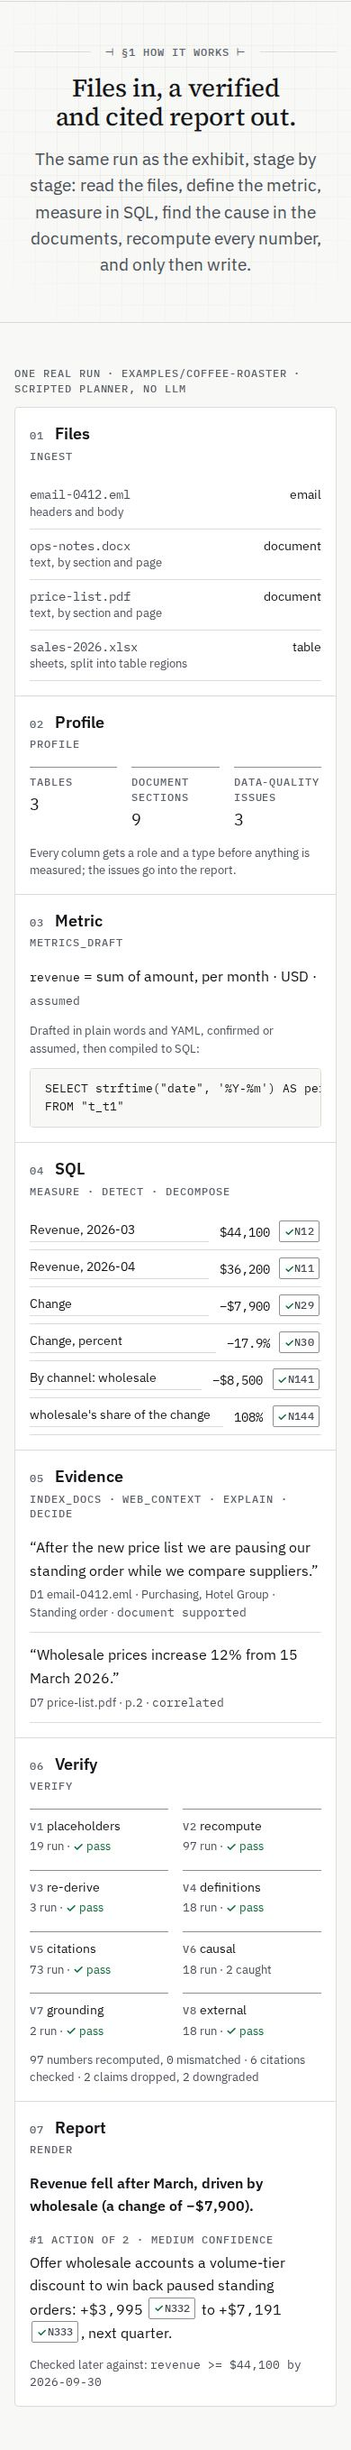
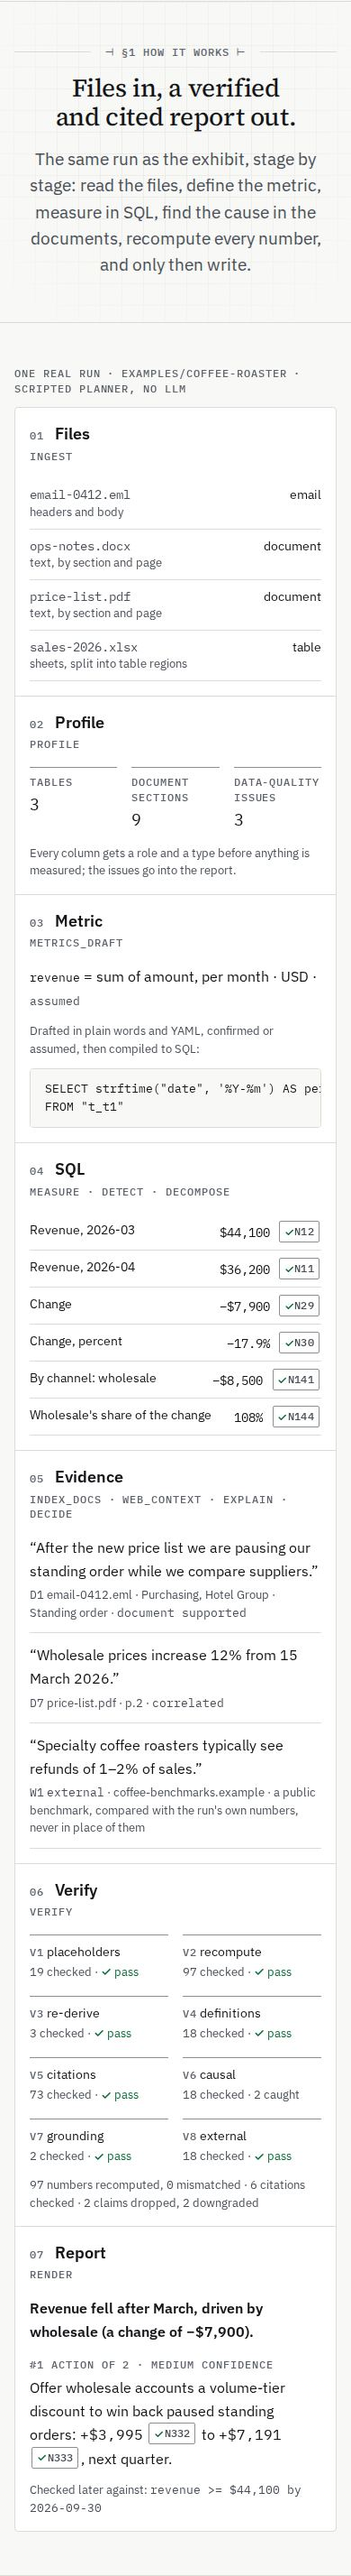
fix(site): pipeline stages keep Starlight's prose styles out (not-content), panels as groups, web quote, review fixes

diff --git a/scripts/site/browser/site.spec.ts b/scripts/site/browser/site.spec.ts
@@ -491,9 +491,9 @@ test("pipeline stages: still until Play; a stop opens its panel; Play steps once
   const stop = (name: string) => root.getByRole("button", { name, exact: true });
   // The finished report first, and still.
   await expect(current).toHaveCount(1);
-  await expect(current.locator("h3")).toContainText("Report");
+  await expect(current.locator(".aa-stage-name")).toContainText("Report");
   await page.clock.runFor(6000);
-  await expect(current.locator("h3")).toContainText("Report");
+  await expect(current.locator(".aa-stage-name")).toContainText("Report");
   const below = async () => page.locator("#why").evaluate((el) => Math.round(el.getBoundingClientRect().top + window.scrollY));
   const y = await below();
   // A stop opens its panel; only that panel is visible.
@@ -507,9 +507,9 @@ test("pipeline stages: still until Play; a stop opens its panel; Play steps once
   await play.click();
   await expect(play).toHaveText("Pause");
   await page.clock.runFor(2600);
-  await expect(current.locator("h3")).toContainText("Profile");
+  await expect(current.locator(".aa-stage-name")).toContainText("Profile");
   await page.clock.runFor(2600 * 6);
-  await expect(current.locator("h3")).toContainText("Report");
+  await expect(current.locator(".aa-stage-name")).toContainText("Report");
   await expect(play).toHaveText("Play");
   expect(await below()).toBe(y);
   // Pressing a stop while playing stops it there.
@@ -518,7 +518,7 @@ test("pipeline stages: still until Play; a stop opens its panel; Play steps once
   await stop("SQL").click();
   await expect(play).toHaveText("Play");
   await page.clock.runFor(6000);
-  await expect(current.locator("h3")).toContainText("SQL");
+  await expect(current.locator(".aa-stage-name")).toContainText("SQL");
 });
 
 test("pipeline stages: a stacked list without JS and under 40rem, no Play under reduced motion; type at the site's sizes", async ({
@@ -533,6 +533,38 @@ test("pipeline stages: a stacked list without JS and under 40rem, no Play under 
     for (const panel of await root.locator(".aa-stage").all()) await expect(panel).toBeVisible();
     await expect(root.locator(".aa-stages-bar")).toBeHidden();
     await ctx.close();
+  }
+  // On docs pages too (Starlight's prose styles must not reach in): one panel shown, the others hidden, every row on one
+  // line at 1440; at 390 the stacked list, each panel below the last with no overlap.
+  for (const path of [`${BASE}/learn/`, `${BASE}/start/what-it-is/`, `${BASE}/how-it-works/pipeline/`]) {
+    for (const viewport of [
+      { width: 1440, height: 900 },
+      { width: 390, height: 844 },
+    ]) {
+      const ctx = await browser.newContext({ viewport });
+      const page = await ctx.newPage();
+      await page.goto(path, { waitUntil: "networkidle" });
+      const panels = page.locator(".aa-stages .aa-stage");
+      await expect(panels).toHaveCount(7);
+      if (viewport.width === 1440) {
+        await expect(page.locator(".aa-stages .aa-stage.is-current")).toBeVisible();
+        for (const p of await page.locator(".aa-stages .aa-stage:not(.is-current)").all()) await expect(p).toBeHidden();
+        const sql = page.locator(".aa-stages").getByRole("button", { name: "SQL", exact: true });
+        await sql.click();
+        // Each SQL row's label and value share a line.
+        const off = await page.locator(".aa-stages .aa-stage-sql tr").evaluateAll((rows) =>
+          rows.map((r) => {
+            const [a, b] = [...r.children].map((c) => c.getBoundingClientRect().top);
+            return Math.abs((a ?? 0) - (b ?? 0));
+          }),
+        );
+        expect(Math.max(...off), path).toBeLessThan(4);
+      } else {
+        const boxes = await panels.evaluateAll((ps) => ps.map((p) => p.getBoundingClientRect()).map((r) => [r.top, r.bottom]));
+        for (let i = 1; i < boxes.length; i++) expect(boxes[i]?.[0] ?? 0, path).toBeGreaterThanOrEqual((boxes[i - 1]?.[1] ?? 0) - 1);
+      }
+      await ctx.close();
+    }
   }
   const ctx = await browser.newContext({ reducedMotion: "reduce", viewport: { width: 1440, height: 900 } });
   const page = await ctx.newPage();

diff --git a/apps/docs/src/styles/starlight.css b/apps/docs/src/styles/starlight.css
@@ -304,7 +304,7 @@ mobile-starlight-toc .toggle {
   font-weight: 600;
   color: var(--aa-ink);
 }
-.sl-markdown-content :not(pre) > code {
+.sl-markdown-content :not(pre) > code:where(:not(.not-content *)) {
   font-size: 0.8125em;
   padding: 0.1em 0.3em;
   border: 1px solid var(--aa-rule);
@@ -315,8 +315,9 @@ mobile-starlight-toc .toggle {
   overflow-wrap: anywhere;
 }
 
-/* Tables in prose are ledgers too: ruled, no outer box, labels for heads; wide ones scroll inside themselves. */
-.sl-markdown-content table {
+/* Tables in prose are ledgers too: ruled, no outer box, labels for heads; wide ones scroll inside themselves. A component
+   marked .not-content (the pipeline stages) keeps its own table and code styles. */
+.sl-markdown-content table:where(:not(.not-content *)) {
   display: block;
   max-width: 100%;
   overflow-x: auto;
@@ -329,14 +330,14 @@ mobile-starlight-toc .toggle {
   overflow: visible;
   min-width: 100%;
 }
-.sl-markdown-content :is(th, td) {
+.sl-markdown-content :is(th, td):where(:not(.not-content *)) {
   border: 0;
   border-bottom: 1px solid var(--aa-rule);
   padding: var(--aa-space-2) var(--aa-space-3);
   background: transparent;
   vertical-align: top;
 }
-.sl-markdown-content th {
+.sl-markdown-content th:where(:not(.not-content *)) {
   border-bottom: 1px solid var(--aa-rule-strong);
   font-family: var(--aa-font-mono);
   font-size: var(--aa-text-label);
@@ -346,7 +347,7 @@ mobile-starlight-toc .toggle {
   color: var(--aa-ink-3);
   text-align: left;
 }
-.sl-markdown-content :is(th, td):first-child {
+.sl-markdown-content :is(th, td):first-child:where(:not(.not-content *)) {
   padding-inline-start: 0;
 }
 .sl-markdown-content tr:nth-child(2n) {

diff --git a/apps/docs/scripts/site-screenshots.ts b/apps/docs/scripts/site-screenshots.ts
@@ -88,6 +88,10 @@ try {
         await page.evaluate(async () => {
           await document.fonts.ready;
         });
+        // Capture only: a full-page clip renders beyond the viewport and replays the pipeline panels' opacity
+        // transition, so every panel shows half-faded on top of the others. Readers never see that (a real resize
+        // doesn't do it); turning transitions off makes the clip match the screen.
+        await page.addStyleTag({ content: "*, *::before, *::after { transition: none !important; }" });
         await page.screenshot({ ...shot, path: join(out, `${slug}-00-top-${w}.jpg`) });
         // Each h2 section in full, from its h2 to the next one (or the end of the article).
         const spans = await page.evaluate(() => {

diff --git a/apps/docs/scripts/pipeline-data.ts b/apps/docs/scripts/pipeline-data.ts
@@ -1,4 +1,4 @@
-// The data behind the animated pipeline (README GIF and the docs <Pipeline /> island): one real, web-enabled run
+// The data behind the pipeline (the README GIF and the site's pipeline stages): one real, web-enabled run
 // of the engine on examples/coffee-roaster with the scripted planner (no LLM), the offline web fixture and the hash
 // embedder. Nothing on screen is typed by hand: the stage order comes from the run's event log, every number is a
 // fact of the verified report (id, value, computation), every quote is a citation the verifier kept, and the V1–V8

diff --git a/scripts/test/pipeline.test.ts b/scripts/test/pipeline.test.ts
@@ -1,4 +1,4 @@
-// The README pipeline GIF and the docs <Pipeline /> island (docs/DOCS-SITE.md §3.3): the data they show is a real
+// The README pipeline GIF and the site's pipeline stages (docs/DOCS-SITE.md §3.3): the data they show is a real
 // run's, the checked-in copy can't drift from the engine, the scene is deterministic, and the asset limits hold.
 import { describe, expect, it } from "vitest";
 import { extractPipelineData, pipelineJson, recordRun, senderOf } from "../../apps/docs/scripts/pipeline-data.ts";

diff --git a/apps/docs/src/components/site/pipeline-stages.ts b/apps/docs/src/components/site/pipeline-stages.ts
@@ -41,7 +41,7 @@ export function sqlRows(run: PipelineData): StageRow[] {
     { label: "Change", facts: [fact(c.delta)] },
     { label: "Change, percent", facts: [fact(c.pct)] },
     { label: `By ${d.dimension}: ${d.member}`, facts: [fact(d.delta)] },
-    { label: `${d.member}'s share of the change`, facts: [fact(d.share)] },
+    { label: `${d.member.charAt(0).toUpperCase()}${d.member.slice(1)}'s share of the change`, facts: [fact(d.share)] },
   ];
 }
 

diff --git a/docs/DOCS-SITE.md b/docs/DOCS-SITE.md
@@ -14,9 +14,9 @@ They share one design system, `apps/docs/DESIGN.md`. Its tokens live in `src/sty
 | Section | Pages |
 |---|---|
 | Landing page (`/`) | Website v2 (M13i, apps/docs/DESIGN.md): the status strip; a centred statement block, then the hero exhibit as its own framed section (M13k: the coffee-roaster report, verified figure by figure as it comes into view, then a guided walkthrough of its key figures, each opening its margin note: scroll-linked on desktop, timed on small screens, a static list under reduced motion or without JS); §1 how it works (the pipeline stages: a rail and one ledger panel per stage, site v3); §2 three proofs; §3 results as they are (model rows and real-data checks, partial runs labelled); §4 quickstart, binaries and the four doors |
-| Start | What it is (1-minute read + animated pipeline), Quickstart (Docker / Bun / Ollama / free endpoint), Your first report (coffee-roaster walkthrough), Running on free models (the Models page, listed here since M13f) |
+| Start | What it is (1-minute read + the pipeline stages), Quickstart (Docker / Bun / Ollama / free endpoint), Your first report (coffee-roaster walkthrough), Running on free models (the Models page, listed here since M13f) |
 | How it works | Pipeline overview (interactive, ported from `docs/assets/blueprint.html`); Ingest & table detection; Profiling & data quality; Metric layer; Detecting changes; Finding drivers (PVM, contribution, rate/mix, Simpson, DIFF), with worked examples and animated bar breakdowns; Documents lane (RAG: chunking, BM25, vectors, RRF, rerank, with a step-through visual); Web lane & privacy; Explain & causal grades; Decisions & impact ranges; The verifier (V1–V8 with a before/after draft example); Security & prompt injection |
-| Learn (M13g) | The beginner path, all on the coffee-roaster example: the big-picture overview (the pipeline animation and a map of every stage with its real in/out); ten stage guides (ingestion & profiling, metric layer, analysis, retrieval, web lane, planner, verifier, report & fact IDs, model router & free providers, security), each with the problem it solves, a step-through diagram, the ideas behind it, a try-it command, repo links and further reading; five tutorials (first file, confirm metrics, documents as evidence, Claude via MCP, evals on your own data); a glossary. Each guide links "Go deeper" to its How it works page |
+| Learn (M13g) | The beginner path, all on the coffee-roaster example: the big-picture overview (the pipeline stages and a map of every stage with its real in/out); ten stage guides (ingestion & profiling, metric layer, analysis, retrieval, web lane, planner, verifier, report & fact IDs, model router & free providers, security), each with the problem it solves, a step-through diagram, the ideas behind it, a try-it command, repo links and further reading; five tutorials (first file, confirm metrics, documents as evidence, Claude via MCP, evals on your own data); a glossary. Each guide links "Go deeper" to its How it works page |
 | Use it | One engine, four doors (overview), CLI, HTTP API (generated from OpenAPI), MCP (Claude Desktop / Cursor setup), Telegram demo, Viewer |
 | Reference | Report schema (generated from JSON Schema), Metric YAML, Config, Insight templates list, Decomposers list |
 | Quality | Evals: method, datasets, results table (from `evals/RESULTS.md`), how to reproduce |

diff --git a/docs/progress/STATE.md b/docs/progress/STATE.md
@@ -309,6 +309,7 @@ These are checks that need something this machine doesn't have yet, such as a re
 - [M13i] The pipeline scene no longer autoplays anywhere on the site (v2: the hero exhibit is the one moment of motion; docs motion is user-triggered only); Play still loops it. The scene's own dark palette stays for the README GIF (GitHub dark mode) and is never requested by the site; scripts/test/site-light.test.ts excludes pipeline-scene.ts for that reason
 - [M13i] The sticky TOC shares the margin column with sidenotes and full-width figures: it has the page background and a height cap, notes scroll beneath it, and while a full-width figure passes under it the TOC steps aside (hidden) so the figure is never covered, and likewise for a sidenote beneath it (review round 1); without JS the TOC stays on top — apps/docs/src/components/starlight/TwoColumnContent.astro
 - [M13i] The landing page's fact ledger is collapsed until one of its rows is the link target (`:has(:target)`), so the chips still work without JS while the hero stays one screen; the margin note links to it
+- [M13l] Site v3 PR 1, panel content: Files shows each file's kind and how the ingester reads that kind (`READ_AS`, fixed wording per kind), not what was found in it, because `pipeline.json` has no per-file results. Verify is eight ruled cells, not a table, so the tallest panel stays short (a V1–V8 table set the shared height and left the other panels half empty). Evidence includes the run's web quote, labelled external, without its gap figure N261: that fact isn't in the landing fact ledger the chips link to. The panel box is as tall as the tallest panel (Metric), so the Report panel has about 150px of space under it at 1440; the plan's fallback (two columns at ≥ 1100px) wasn't needed for the others and was left out — apps/docs/src/components/site/PipelineStages.astro
 - [M13l] Site v3 PR 1: the pipeline stages' Profile panel gives the three counts but doesn't name the quality issues (the plan said it would): `docs/assets/readme/pipeline.json` holds only the count, and adding names means re-recording the README GIF's data. Under reduced motion the stops still select panels and only Play and the crossfade go (DESIGN.md §6), rather than the stacked list the plan described: stepping by hand isn't motion — apps/docs/src/components/site/PipelineStages.astro
 - [M13k] The walkthrough has four steps: the change, its current-period SQL input (the step that shows SQL and sheet rows; the change itself is a function of two SQL facts), the driver, the quoted cause. The recommendation is not a step: its note is a scenario function, and the four tell what changed and why. Hover and focus still open it — apps/docs/scripts/landing-data.ts walkthrough()
 - [M13k] Scroll drives the steps only where the section and every note fit on screen (≥ 1100 px wide and ≥ 704 px tall; between 900 and 1100 px the narrower notes column makes the SQL note too tall, review round 1). Smaller screens advance on a timer (4.5 s a step) while the notes are on screen, because a sticky section taller than a phone screen can't show the figure and its note together. The timer waits while the reader hovers or focuses inside the exhibit; a Pause/Play button stops it (WCAG 2.2.2); stepping by hand pauses it — DESIGN.md §6

diff --git a/apps/docs/DESIGN.md b/apps/docs/DESIGN.md
@@ -213,11 +213,12 @@ The scale (rem, root 16px; mobile values apply under 640px):
     - Profile gives the three counts.
     - Metric is the definition and its compiled SQL.
     - SQL is a ledger of the two periods, the change and the driver.
-    - Evidence holds the quotes with source, file and grade.
+    - Evidence holds the document quotes with source, file and grade, and the web quote labelled external.
     - Verify is the eight checks V1–V8 as ruled cells (how many times each ran, then a pass mark or how many claims it caught) plus the verifier's totals.
     - Report is the headline and the top action with its impact range and dated check.
   - **Live** (JS, from 40rem; switched on before first paint, so nothing shifts): the panels share one grid cell as tall as the tallest, and the finished report shows first. Play steps through the stops once, every 2.5 seconds while on screen, and stops at Report; it reads Pause while running, and pressing a stop stops it there. Changing stop crossfades the panel content only, in 150ms. Under reduced motion there is no Play and no crossfade; the stops still work.
   - **Without JS, or under 40rem,** the panels are a stacked ruled list, with no rail.
+  - **Markup:** each panel is a `role="group"` named by its title (not a heading, so it fits under any page's outline). On docs pages the root carries `not-content`, so Starlight's prose rules (flow margins, tables, inline code) don't reach in.
 - **Stage diagram** (`StageFlow`, Learn):
   - three ruled columns on a `raised` panel: In → the stage's steps → Out, full width;
   - figures in mono with their fact chips; a selected step and its outputs take the `mark` wash;
